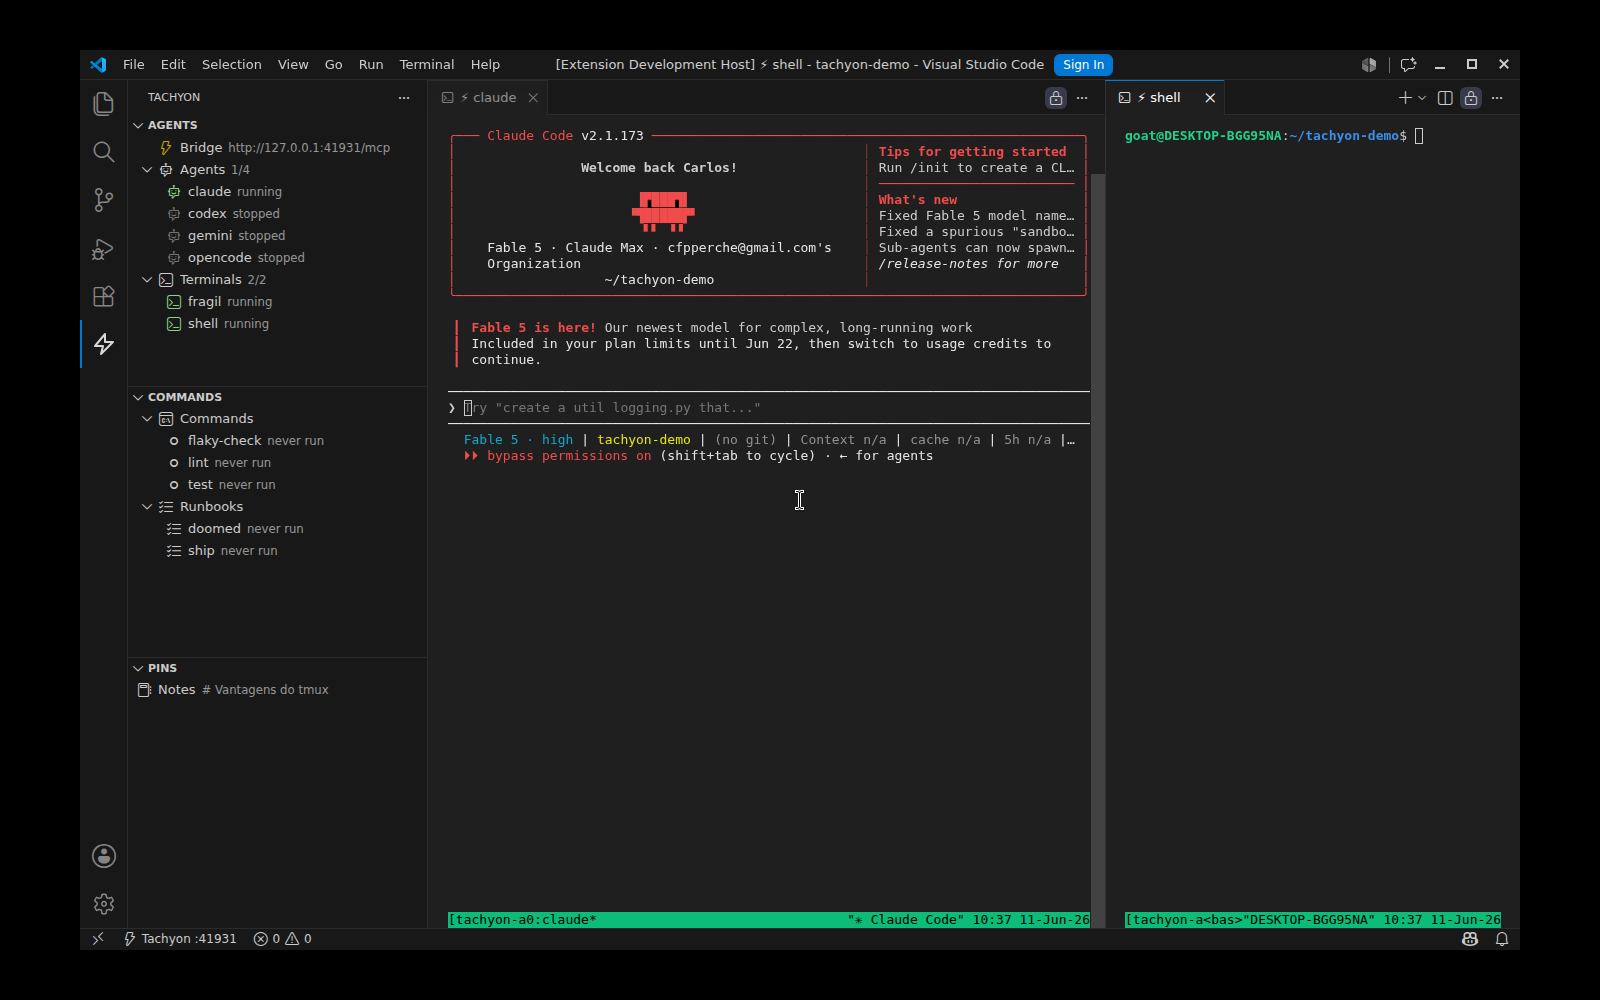
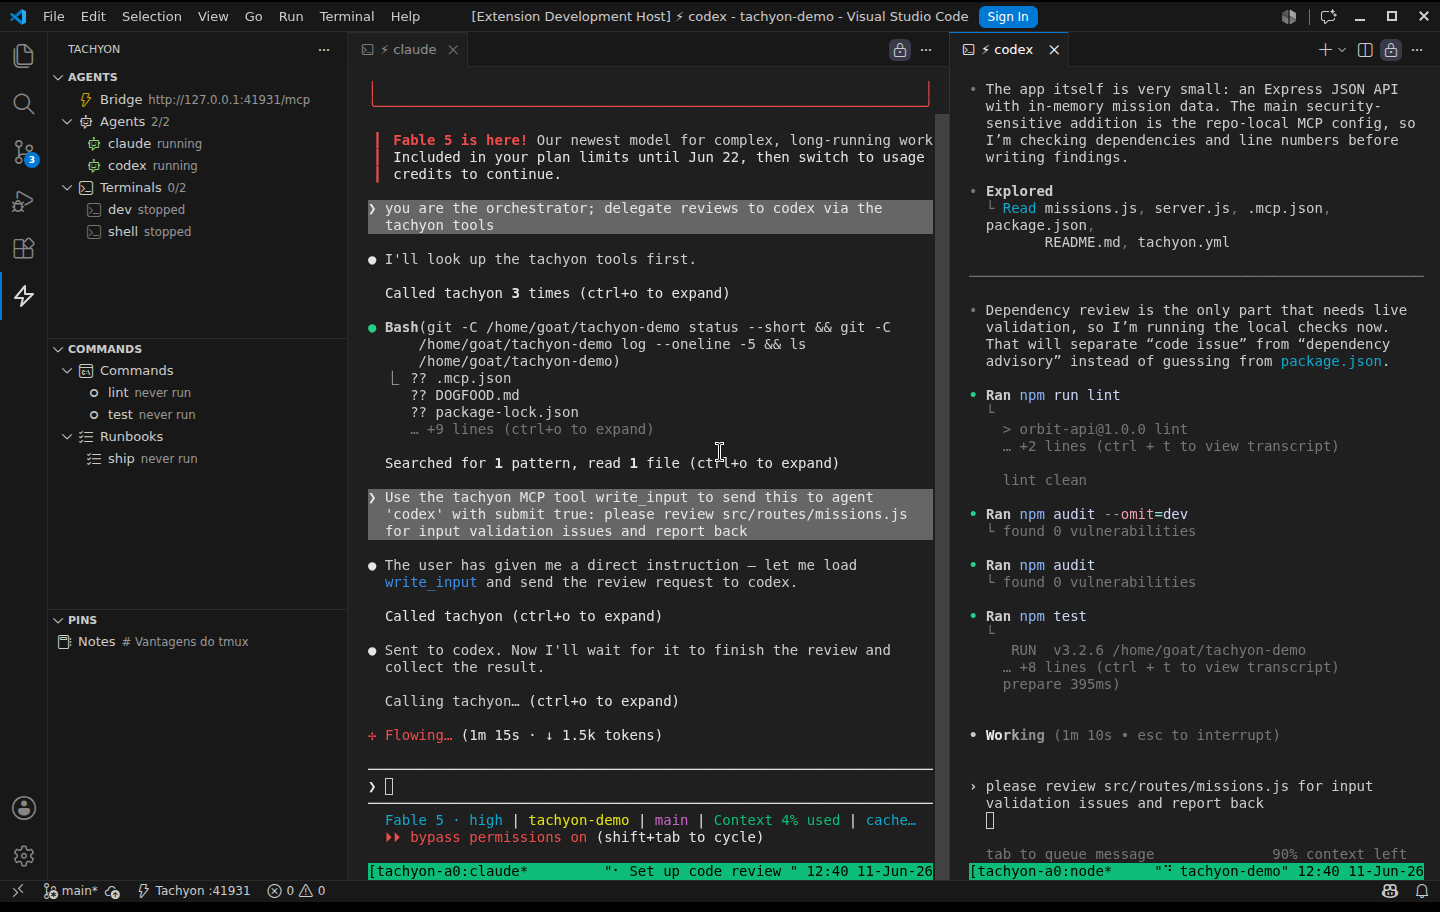
docs: hero shows REAL cross-agent orchestration; multi-root isolation capture; runtime chips
The demo workspace is now a real project (orbit-api: Express + vitest,
real routes/tests/lint; orbit-worker as the companion service) — and the
hero is a real capture of the promise: Claude (left) asked Codex (right)
to review a route via write_input, and Codex is visibly reading the code
and running lint, npm audit and tests on its own. Caption added.

New "Workspace isolation, for real" section with a live multi-root
capture: two folders, two Bridges on visibly different ports, per-folder
agents/commands/pins, status bar Tachyon x2 — same image in the README's
multi-root section.

Hero gains runtime chips under the headline (Claude Code, Codex, Gemini,
OpenCode, Qwen Code, + any CLI) — any-runtime focus with the majors named.

diff --git a/site/index.html b/site/index.html
@@ -121,6 +121,14 @@
     <div class="badge"><b>NEW IN 0.5</b> Tachyon: Init — detects your stack and writes your tachyon.yml. →</div>
     <div class="hero-eyebrow">SEVERAL AGENTS. ONE EDITOR. NATIVE TERMINALS.</div>
     <h1>Any AI agent. <span class="a">Side by side.</span> Inside VSCode.</h1>
+    <div class="chips" style="margin:6px 0 26px">
+      <span class="chip"><span class="dot">⚡</span>Claude Code</span>
+      <span class="chip"><span class="dot">⚡</span>Codex</span>
+      <span class="chip"><span class="dot">⚡</span>Gemini</span>
+      <span class="chip"><span class="dot">⚡</span>OpenCode</span>
+      <span class="chip"><span class="dot">⚡</span>Qwen Code</span>
+      <span class="chip"><span class="dot">＋</span>any CLI</span>
+    </div>
     <p class="lede">Stop alt-tabbing to babysit agents: <b>Claude Code</b>, <b>Codex</b>, <b>Gemini</b>,
     <b>OpenCode</b> — or any CLI — each as a <b>tmux session</b> in a <b>native editor terminal</b>,
     with one orchestrating the rest through an embedded <b>MCP Bridge</b>.
@@ -130,7 +138,8 @@
       <a class="btn" href="https://github.com/cfpperche/tachyon">GitHub</a>
     </div>
     <img class="shot" src="https://raw.githubusercontent.com/cfpperche/tachyon/main/docs/screenshots/hero.png"
-         alt="Tachyon running Claude Code and a shell as native editor terminals, with the sidebar showing agents, commands and pins">
+         alt="Claude Code orchestrating a live Codex review side by side — Claude asked via write_input, Codex is reading the routes and running lint, audit and tests">
+    <p class="footnote" style="margin-top:14px">Real capture: Claude (left) asked Codex (right) to review a route via <code>write_input</code> — Codex is reading the code and running lint, audit and tests.</p>
   </header>
 
   <!-- ============ HOW IT WORKS ============ -->
@@ -333,6 +342,22 @@
         <p>Sidebar and Agent Studio render with your theme's tokens — light, dark and
         high-contrast — in English and Português (Brasil).</p></div>
     </div>
+  </section>
+
+  <!-- ============ MULTI-ROOT ============ -->
+  <section>
+    <div class="eyebrow">Multi-root</div>
+    <h2>Workspace isolation, for real</h2>
+    <p class="sub">Two folders in one VSCode window — an API and its worker. Each gets its own
+    Bridge (note the two ports), its own agents, commands and pins. The status bar says
+    <code>⚡ Tachyon ×2</code>.</p>
+    <img class="shot" src="https://raw.githubusercontent.com/cfpperche/tachyon/main/docs/screenshots/multiroot.png"
+         alt="Multi-root workspace: two folders each with their own Bridge on different ports, own agents, commands and pins; status bar shows Tachyon ×2">
+    <ul class="checks" style="max-width:760px;margin:28px auto 0">
+      <li>Own tmux namespace, Bridge port and token per folder — sub-agents can't cross-talk</li>
+      <li>Palette commands ask which folder; tree items act on their own folder</li>
+      <li>Folders added or removed live are picked up without a reload</li>
+    </ul>
   </section>
 
   <!-- ============ STUDIO ============ -->

diff --git a/README.md b/README.md
@@ -21,7 +21,10 @@ spawn sub-agents, read each other's output, run your curated commands, notify yo
 need you. Sessions **survive VSCode restarts** (tmux owns the processes). **100% local**:
 no cloud component, no telemetry, no token proxying — on the subscriptions you already pay for.
 
-![Tachyon — Claude Code and a shell as editor terminals, with the sidebar showing agents, commands and pins](https://raw.githubusercontent.com/cfpperche/tachyon/main/docs/screenshots/hero.png)
+![Claude Code orchestrating a live Codex review — Claude asked via write_input, Codex is reading the routes and running lint, audit and tests](https://raw.githubusercontent.com/cfpperche/tachyon/main/docs/screenshots/hero.png)
+
+> Real capture: Claude (left) asked Codex (right) to review a route via `write_input` —
+> Codex is reading the code and running lint, audit and tests on its own.
 
 ## Works with the CLIs you already use
 
@@ -343,6 +346,8 @@ On spawn, the instructions are delivered as a startup prompt for CLIs that accep
 not auto-delivered (the form tells you).
 
 ## Multi-root workspaces
+
+![Two folders in one window, each with its own Bridge on a different port, own agents, commands and pins — status bar shows Tachyon ×2](https://raw.githubusercontent.com/cfpperche/tachyon/main/docs/screenshots/multiroot.png)
 
 Each folder in a multi-root workspace that carries a `tachyon.yml` gets its **own isolated
 world**: its own tmux namespace, its own Bridge (own port, own token), its own pins and
